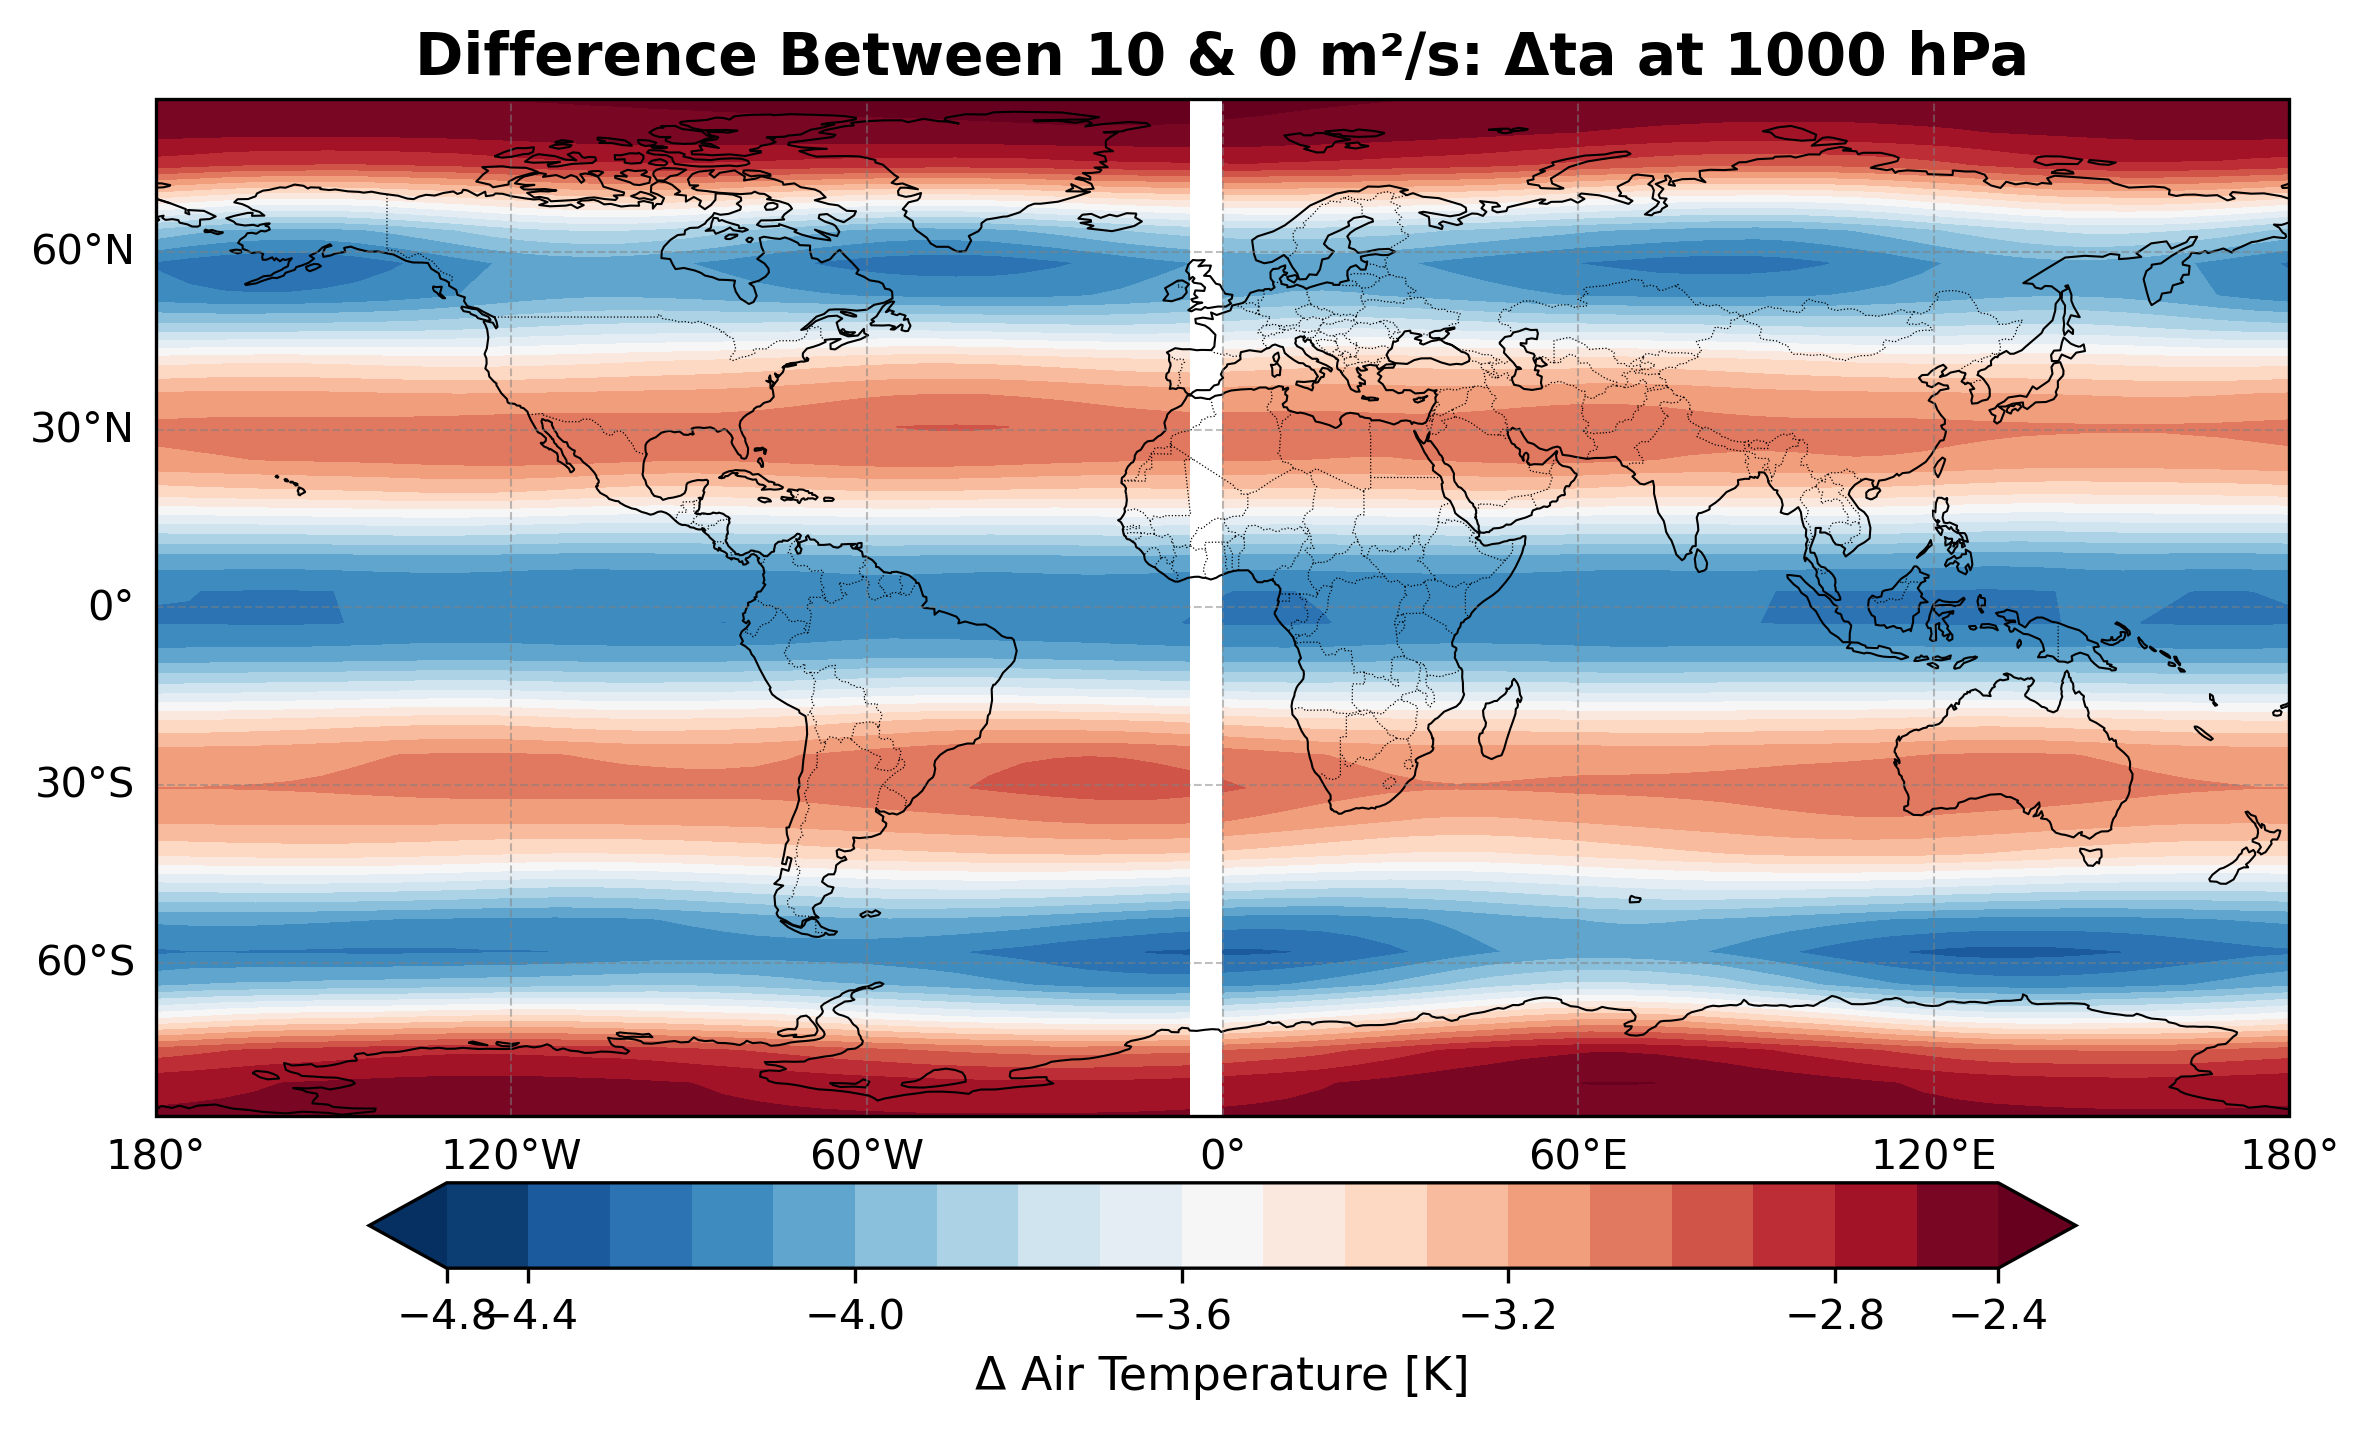
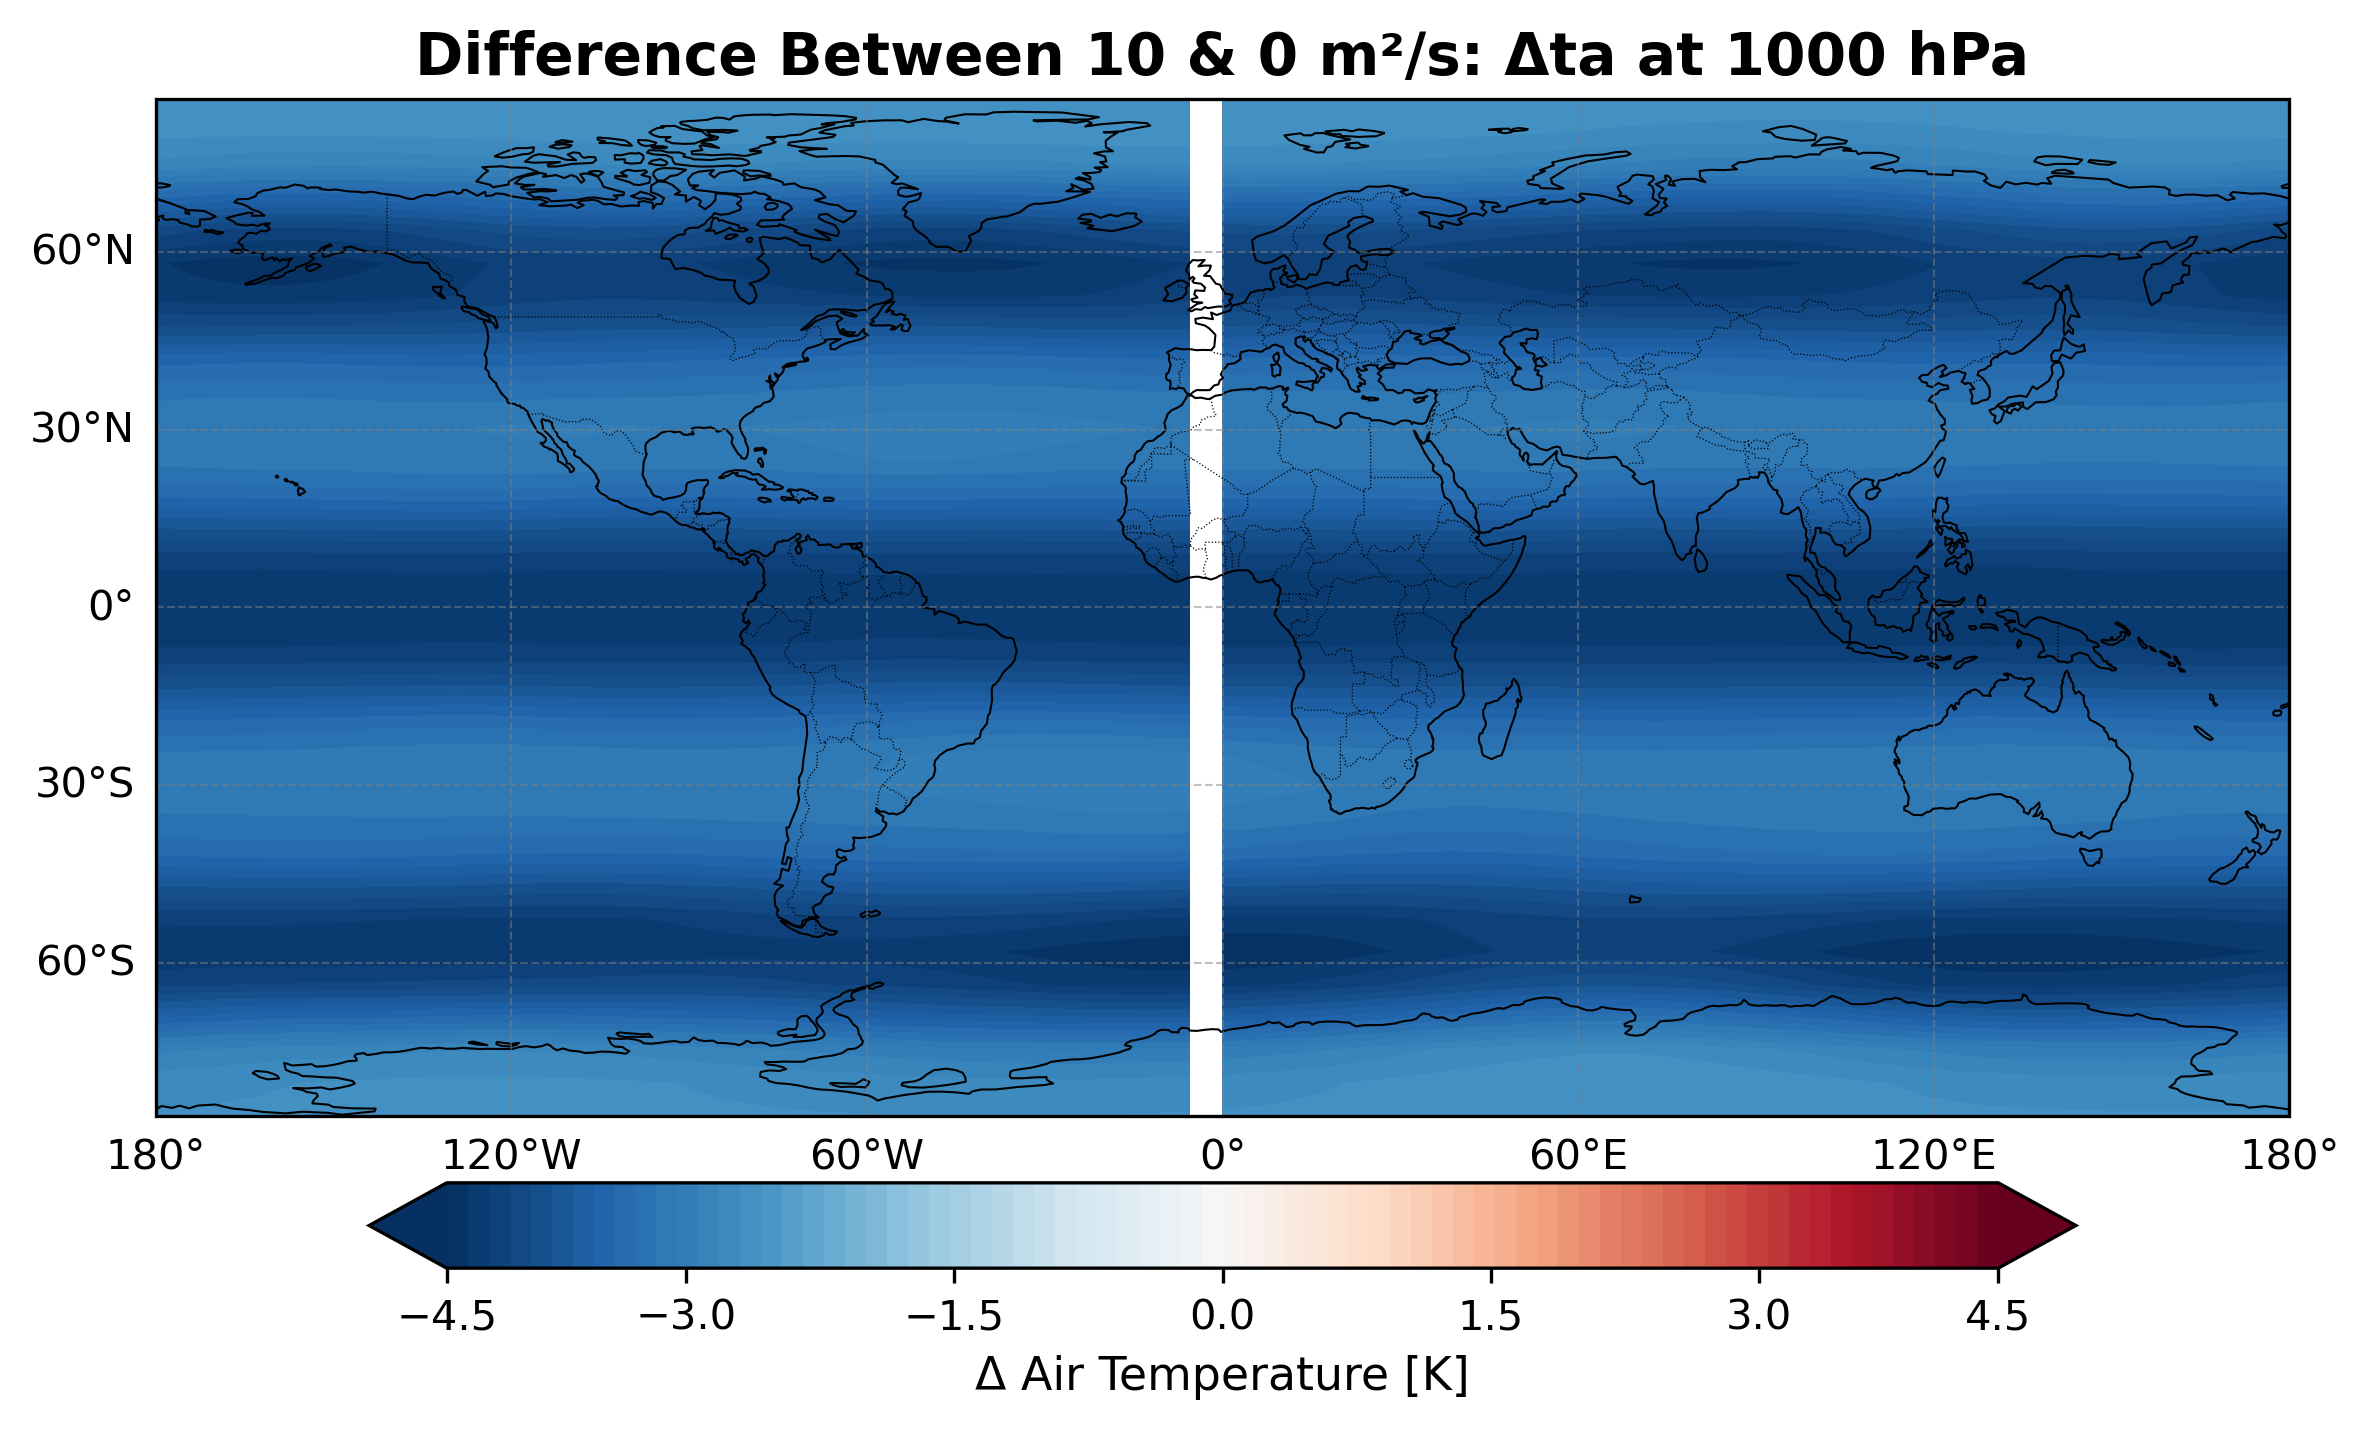
diff plots color bar centered around 0

diff --git a/src2/GeopotentialHeight/GeopotentialHeight.py b/src2/GeopotentialHeight/GeopotentialHeight.py
@@ -96,16 +96,11 @@ def create_geopotential_height_difference_map(refFile, expFile, pressureLevel, d
     # Difference: experiment - reference
     zg_diff = zgExp_at_level - zgRef_at_level
 
-    def levels():
-        match pressureLevel:
-            case 50000:
-                return np.arange(-26, 26, 0.5)
-            case 85000:
-                return np.arange(-38, 0, 0.5)
-            case 100000:
-                return np.arange(-23, 23, 0.5)
-            case _:
-                return np.arange(zg_diff.min().values, zg_diff.max().values, 0.5)
+    # Symmetric color scale around 0
+    vmax = float(np.nanmax(np.abs(zg_diff.values)))
+    vmin = -vmax
+
+    levels = np.linspace(vmin, vmax, 75)
 
     # Plot
     plt.figure(figsize=(8, 5))
@@ -113,7 +108,7 @@ def create_geopotential_height_difference_map(refFile, expFile, pressureLevel, d
 
     contour = ax.contourf(
         zg_diff.lon, zg_diff.lat, zg_diff,
-        levels=levels(),
+        levels=levels,
         cmap='RdBu_r',
         extend='both',
         transform=ccrs.PlateCarree()

diff --git a/src2/AirTemp/AirTemperature.py b/src2/AirTemp/AirTemperature.py
@@ -100,25 +100,20 @@ def create_air_temperature_difference_map(refFile, expFile, pressureLevel, dvdif
 
     # Difference: experiment - reference
     ta_diff = taExp_at_level - taRef_at_level
-    
-    def levels():
-        match pressureLevel:
-            case 50000:
-                return np.arange(3, 7.5, 0.1)
-            case 85000:
-                return np.arange(-7, -2, 0.1)
-            case 100000:
-                return np.arange(-4.5, -2.5, 0.1)
-            case _:
-                return np.arange(ta_diff.min().values, ta_diff.max().values, 0.1)
 
+    # Symmetric color scale around 0
+    vmax = float(np.nanmax(np.abs(ta_diff.values)))
+    vmin = -vmax
+
+    levels = np.linspace(vmin, vmax, 75)
+                
     # Plot
     plt.figure(figsize=(8, 5))
     ax = plt.axes(projection=ccrs.PlateCarree())
 
     contour = ax.contourf(
         ta_diff.lon, ta_diff.lat, ta_diff,
-        levels=levels(),
+        levels=levels,
         cmap='RdBu_r',
         extend='both',
         transform=ccrs.PlateCarree()

diff --git a/src2/Wind/Wind.py b/src2/Wind/Wind.py
@@ -265,7 +265,7 @@ def create_wind_difference_plot(fileName_u_ref, fileName_v_ref, fileName_u_exp, 
     plt.figure(figsize=(18, 9))
     ax = plt.axes(projection=ccrs.PlateCarree())
 
-    # Symmetric levels around 0 for signed difference (optional alt below)
+    # Symmetric levels around 0 for signed difference
     vmax = np.nanmax(np.abs(diff_speed.values))
     levels = np.linspace(0, vmax, 15)
 
